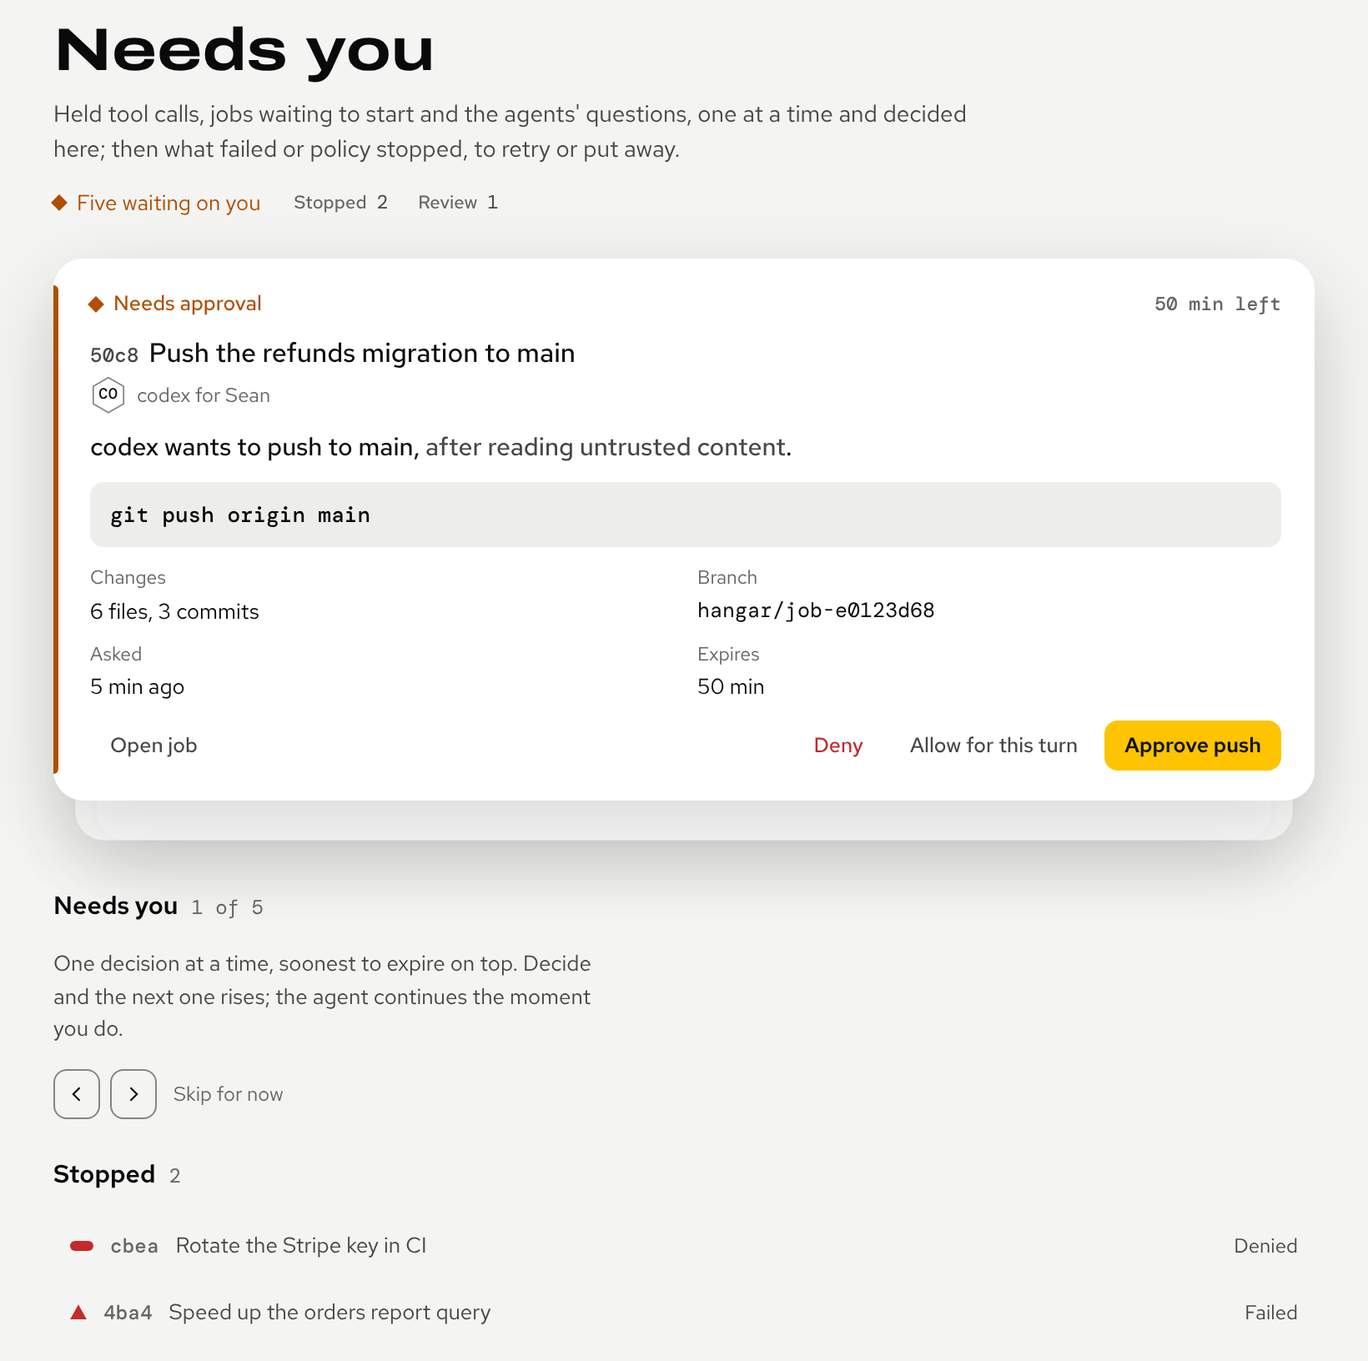
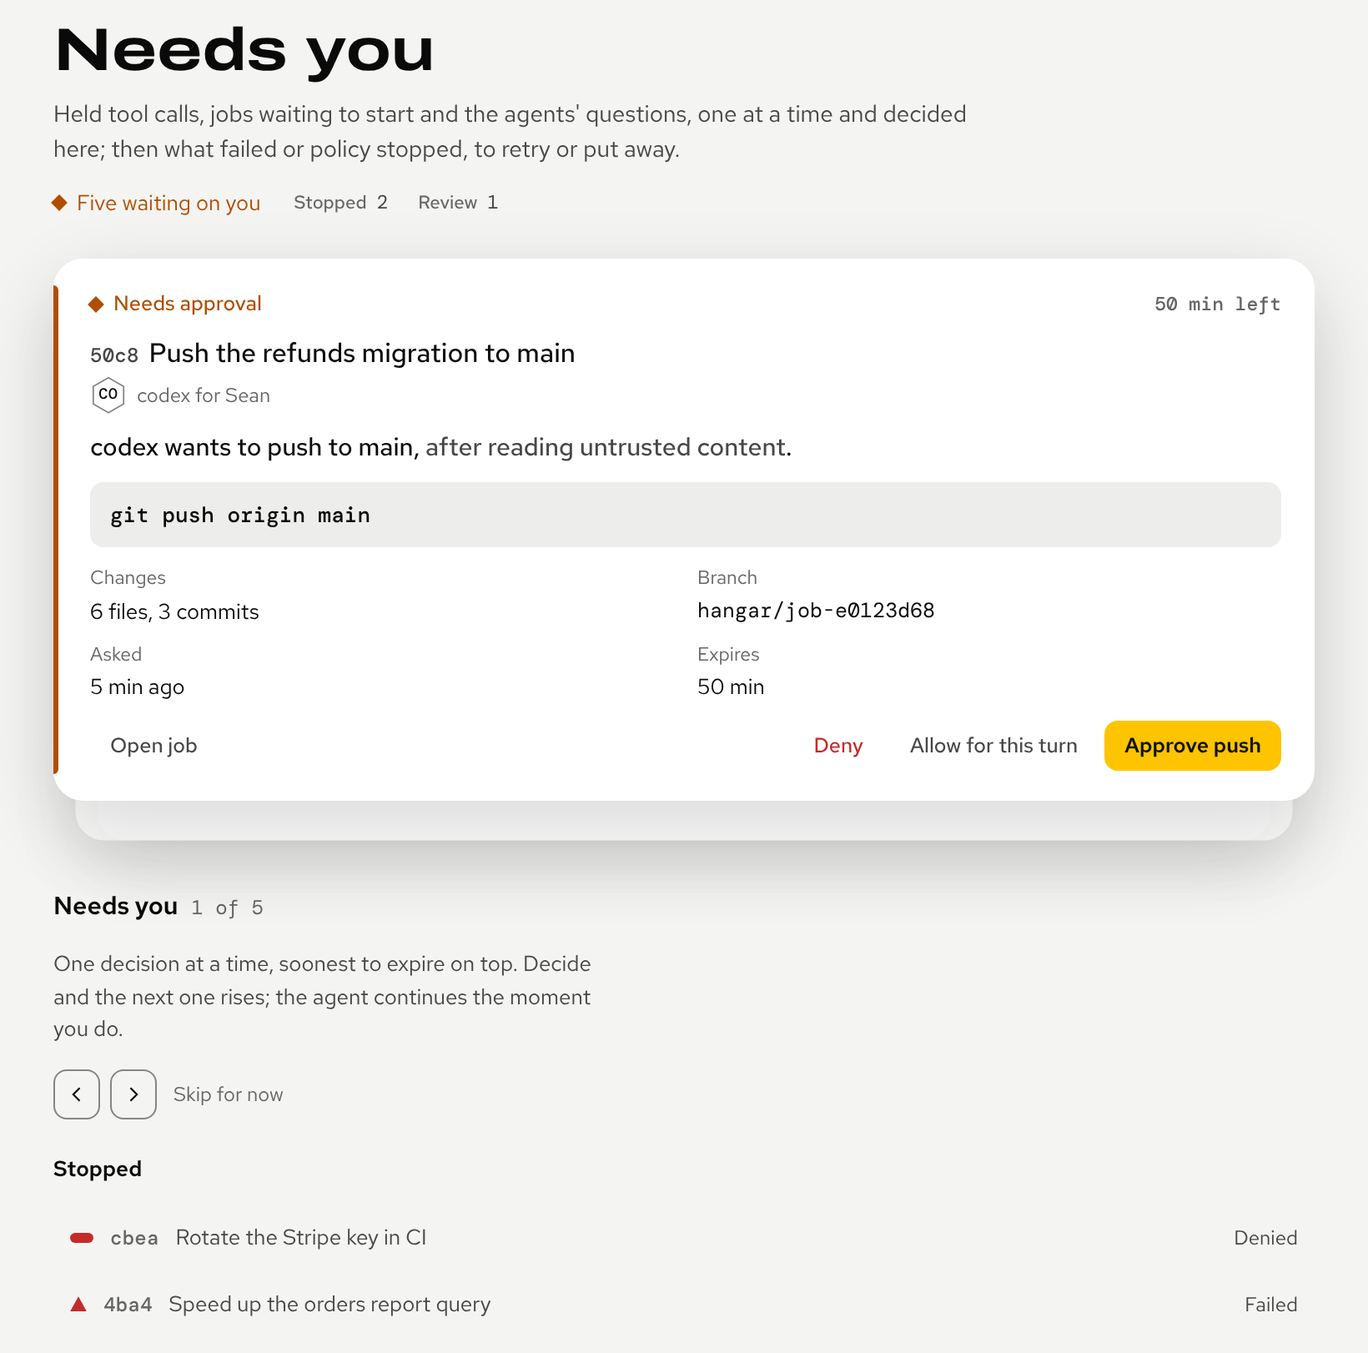
style: vendor Airframe theme-v13; the deck's Stopped list on Airframe's classes (KAN-149)
- sync-airframe.sh theme-v13: sentence-case docs labels, neutral docs
  highlights (no brand-wash), DecisionDeck's neutral peek and the new
  af-deck__subtitle / af-deck__stopped.
- fleet.js: the Stopped list uses af-deck__subtitle and af-deck__stopped.
- app.css: the local peek rule and the deck-stopped CSS are gone; Airframe
  covers both, and af-deck__stopped stays visible below 1000 px.
- Needs you and Fleet stills re-shot in Night and Day.

Claude-Session: https://claude.ai/code/session_01BSFunzHzapAtRqB8bzGrFz

diff --git a/docs/stylesheets/airframe-docs.css b/docs/stylesheets/airframe-docs.css
@@ -1,11 +1,11 @@
-/* Airframe theme-v12 for the docs sites. Generated from airframe/docs-site/airframe-docs.css by scripts/airframe.py; do not edit. Load after airframe.css. */
+/* Airframe theme-v13 for the docs sites. Generated from airframe/docs-site/airframe-docs.css by scripts/airframe.py; do not edit. Load after airframe.css. */
 @import url("https://fonts.googleapis.com/css2?family=Archivo:wdth,wght@62..125,100..900&family=DM+Mono:wght@400;500&family=Red+Hat+Text:ital,wght@0,400..700;1,400..700&display=swap");
 
 /*
   Airframe for the docs sites (Zensical / Material for MkDocs). Source: airframe/docs-site/airframe-docs.css
   in Sean-Koval/agent-factory, published as theme/airframe-docs.css by scripts/airframe.py build. Load after
   airframe.css. It maps the theme's --md-* variables onto Airframe tokens and adds the few Airframe details a
-  docs page needs: display type for headings, mono uppercase labels, a 2px product marker under the header,
+  docs page needs: display type for headings, sentence-case sans labels (theme-v13), a 2px product marker under the header,
   tonal blocks instead of boxed cards, and the suite strip (airframe-suite.html, included through
   overrides/main.html) that links the family's docs sites.
 
@@ -34,13 +34,13 @@
   --md-primary-bg-color--light: var(--af-fg-muted);
 
   --md-accent-fg-color: var(--af-brand-text);
-  --md-accent-fg-color--transparent: var(--af-brand-wash);
+  --md-accent-fg-color--transparent: var(--af-selected);
   --md-accent-bg-color: var(--af-on-brand);
   --md-accent-bg-color--light: var(--af-on-brand);
 
   --md-typeset-color: var(--af-fg);
   --md-typeset-a-color: var(--af-fg);
-  --md-typeset-mark-color: var(--af-brand-wash);
+  --md-typeset-mark-color: var(--af-selected);
   --md-typeset-table-color: var(--af-line);
   --md-typeset-table-color--light: var(--af-surface);
   --md-typeset-kbd-color: var(--af-raised);
@@ -48,8 +48,8 @@
 
   --md-code-fg-color: var(--af-terminal-fg);
   --md-code-bg-color: var(--af-terminal-bg);
-  --md-code-hl-color: var(--af-brand-wash);
-  --md-code-hl-color--light: var(--af-brand-wash);
+  --md-code-hl-color: var(--af-selected);
+  --md-code-hl-color--light: var(--af-selected);
   --md-code-hl-keyword-color: var(--af-code-keyword);
   --md-code-hl-function-color: var(--af-code-function);
   --md-code-hl-string-color: var(--af-code-string);
@@ -98,12 +98,12 @@ body { background: var(--af-canvas); }
 .md-typeset .af-suite { display: flex; align-items: stretch; height: 30px; white-space: nowrap; overflow-x: auto; scrollbar-width: none; }
 .md-typeset .af-suite::-webkit-scrollbar { display: none; }
 .md-typeset .af-suite a { text-decoration: none; }
-.md-typeset .af-suite__home { display: inline-flex; align-items: center; gap: .6em; padding-right: 1em; margin-right: .4em; color: var(--af-fg-muted); border-right: 1px solid var(--af-line); font-family: var(--af-font-mono); font-size: .56rem; letter-spacing: var(--af-label-track); text-transform: uppercase; }
+.md-typeset .af-suite__home { display: inline-flex; align-items: center; gap: .6em; padding-right: 1em; margin-right: .4em; color: var(--af-fg-muted); border-right: 1px solid var(--af-line); font-family: var(--af-font-sans); font-weight: 500; font-size: .6rem; letter-spacing: 0; text-transform: none; }
 .md-typeset .af-suite__home::before { content: ""; width: 12px; height: 1px; background: var(--af-brand-line); flex: none; }
 .md-typeset .af-suite .af-suite__list { list-style: none; margin: 0; padding: 0; display: flex; }
 .md-typeset .af-suite .af-suite__list li { margin: 0; padding: 0; display: block; }
 .md-typeset .af-suite__list a, .md-typeset .af-suite__list span { display: inline-flex; align-items: center; gap: .55em; height: 30px; padding: 0 .8em; line-height: 1; color: var(--af-fg-muted); font-family: var(--af-font-display); font-stretch: var(--af-display-stretch); font-weight: 700; font-size: .6rem; letter-spacing: 0; }
-.md-typeset .af-suite__list small { font-family: var(--af-font-mono); font-weight: 500; font-size: .5rem; line-height: 1; padding-top: 1px; letter-spacing: var(--af-label-track); text-transform: uppercase; color: var(--af-fg-subtle); opacity: 1; }
+.md-typeset .af-suite__list small { font-family: var(--af-font-sans); font-weight: 500; font-size: .55rem; line-height: 1; padding-top: 1px; letter-spacing: 0; text-transform: none; color: var(--af-fg-subtle); opacity: 1; }
 .md-typeset .af-suite__list span { color: var(--af-fg-subtle); }
 .md-typeset .af-suite a:hover, .md-typeset .af-suite a:focus-visible { color: var(--af-fg); }
 .md-typeset .af-suite [aria-current] { color: var(--af-fg); box-shadow: inset 0 -2px 0 var(--af-product); }
@@ -130,7 +130,7 @@ body { background: var(--af-canvas); }
 .md-header { border-bottom: 1px solid var(--af-line); }
 .md-header__title { font-family: var(--af-font-display); font-stretch: var(--af-display-stretch); font-weight: var(--af-display-weight); letter-spacing: var(--af-display-track); }
 .md-tabs { border-bottom: 1px solid var(--af-line); }
-.md-tabs__link { font-family: var(--af-font-mono); font-size: .62rem; letter-spacing: var(--af-label-track); text-transform: uppercase; opacity: 1; color: var(--af-fg-muted); }
+.md-tabs__link { font-family: var(--af-font-sans); font-weight: 500; font-size: .62rem; letter-spacing: 0; text-transform: none; opacity: 1; color: var(--af-fg-muted); }
 .md-tabs__link--active, .md-tabs__link:hover { color: var(--af-fg); }
 .md-tabs__item--active { box-shadow: inset 0 -2px 0 var(--af-product); }
 .md-header::after { content: ""; position: absolute; left: 0; bottom: -1px; width: 48px; height: 2px; background: var(--af-product); }
@@ -140,7 +140,7 @@ body { background: var(--af-canvas); }
 .md-typeset h1 { font-size: 1.9em; line-height: 1.08; margin-bottom: .9em; }
 .md-typeset h2 { font-size: 1.25em; line-height: 1.2; border-top: 1px solid var(--af-rule); padding-top: 1.1em; margin-top: 2em; }
 .md-typeset h3 { font-weight: 600; letter-spacing: 0; }
-.md-typeset h4, .md-typeset h5, .md-typeset h6 { font-family: var(--af-font-mono); text-transform: uppercase; letter-spacing: var(--af-label-track); font-size: .7rem; color: var(--af-fg-subtle); }
+.md-typeset h4, .md-typeset h5, .md-typeset h6 { font-family: var(--af-font-sans); font-weight: 600; text-transform: none; letter-spacing: 0; font-size: .75rem; color: var(--af-fg-muted); }
 
 /* page anatomy: the first paragraph under the title is the lede; "See also" and other end lists stay plain */
 .md-typeset h1 + p:not(.af-lede) { font-size: .9rem; line-height: 1.5; color: var(--af-fg-muted); max-width: 62ch; }
@@ -151,7 +151,7 @@ body { background: var(--af-canvas); }
 .md-typeset a.headerlink, .md-typeset .md-button { text-decoration: none; }
 
 /* buttons */
-.md-typeset .md-button { border-radius: var(--af-radius-control); border: 1px solid var(--af-line-strong); background: transparent; color: var(--af-fg); font-family: var(--af-font-mono); font-size: .64rem; letter-spacing: .06em; text-transform: uppercase; padding: .55em 1.2em; }
+.md-typeset .md-button { border-radius: var(--af-radius-control); border: 1px solid var(--af-line-strong); background: transparent; color: var(--af-fg); font-family: var(--af-font-sans); font-weight: 500; font-size: .64rem; letter-spacing: 0; text-transform: none; padding: .55em 1.2em; }
 .md-typeset .md-button--primary { background: var(--af-brand); border-color: var(--af-brand); color: var(--af-on-brand); }
 .md-typeset .md-button:hover { border-color: var(--af-fg); background: transparent; color: var(--af-fg); }
 .md-typeset .md-button--primary:hover { background: var(--af-brand-hover); border-color: var(--af-brand-hover); color: var(--af-on-brand); }
@@ -165,10 +165,10 @@ body { background: var(--af-canvas); }
 .md-typeset code { border-radius: var(--af-radius-control); font-size: .82em; }
 .md-typeset :not(pre) > code { background: var(--af-raised); color: var(--af-fg); padding: .1em .35em; }
 
-/* tables: full column width, open header (no fill), mono uppercase labels, a hairline under the header, row rules only */
+/* tables: full column width, open header (no fill), sentence-case sans labels, a hairline under the header, row rules only */
 .md-typeset .md-typeset__table { display: block; width: 100%; }
 .md-typeset table:not([class]) { display: table; width: 100%; border: 0; border-radius: 0; background: transparent; font-size: .74rem; box-shadow: none; }
-.md-typeset table:not([class]) th { background: transparent; color: var(--af-fg-subtle); font-family: var(--af-font-mono); font-weight: 500; font-size: .6rem; letter-spacing: var(--af-label-track); text-transform: uppercase; border-bottom: 1px solid var(--af-line); }
+.md-typeset table:not([class]) th { background: transparent; color: var(--af-fg-subtle); font-family: var(--af-font-sans); font-weight: 500; font-size: .6rem; letter-spacing: 0; text-transform: none; border-bottom: 1px solid var(--af-line); }
 .md-typeset table:not([class]) td { border-top: 1px solid var(--af-line-subtle); }
 .md-typeset table:not([class]) tr:hover { background: var(--af-selected); box-shadow: none; }
 
@@ -182,13 +182,13 @@ body { background: var(--af-canvas); }
 .md-typeset .admonition, .md-typeset details { --af-adm: var(--af-fg-subtle); border: 0; border-radius: var(--af-radius-card); background: var(--af-surface) !important; box-shadow: inset 2px 0 0 var(--af-adm); font-size: .74rem; }
 .md-typeset :is(.admonition, details):is(.warning, .caution, .attention) { --af-adm: var(--af-status-approval); }
 .md-typeset :is(.admonition, details):is(.danger, .error, .failure, .fail, .missing) { --af-adm: var(--af-status-failed); }
-.md-typeset .admonition-title, .md-typeset summary { background: transparent !important; font-family: var(--af-font-mono); font-size: .62rem; letter-spacing: var(--af-label-track); text-transform: uppercase; color: var(--af-fg-muted); }
+.md-typeset .admonition-title, .md-typeset summary { background: transparent !important; font-family: var(--af-font-sans); font-weight: 500; font-size: .62rem; letter-spacing: 0; text-transform: none; color: var(--af-fg-muted); }
 .md-typeset .admonition-title::before, .md-typeset summary::before { background-color: var(--af-adm) !important; }
 .md-typeset .admonition-title::after, .md-typeset summary::after { color: var(--af-fg-subtle) !important; }
 .md-typeset .admonition:focus-within, .md-typeset details:focus-within { box-shadow: inset 2px 0 0 var(--af-adm), 0 0 0 2px var(--af-focus) !important; }
 
 /* navigation: mono section labels, a brand mark on the current page */
-.md-nav__title { font-family: var(--af-font-mono); text-transform: uppercase; letter-spacing: var(--af-label-track); font-size: .6rem; color: var(--af-fg-subtle); box-shadow: none !important; background: transparent !important; }
+.md-nav__title { font-family: var(--af-font-sans); font-weight: 500; text-transform: none; letter-spacing: 0; font-size: .6rem; color: var(--af-fg-subtle); box-shadow: none !important; background: transparent !important; }
 .md-nav__link--active { color: var(--af-fg) !important; font-weight: 600; }
 .md-nav__item .md-nav__link--active { box-shadow: inset 2px 0 0 var(--af-product); padding-left: .5em; }
 .md-search__form { border-radius: var(--af-radius-control); background: var(--af-raised); }
@@ -197,13 +197,13 @@ body { background: var(--af-canvas); }
 .md-typeset img { border-radius: var(--af-radius-card); }
 .af-figure { margin: 1.5em 0; }
 .af-figure img { width: 100%; display: block; }
-.af-figure figcaption { font-family: var(--af-font-mono); font-size: .6rem; letter-spacing: var(--af-label-track); text-transform: uppercase; color: var(--af-fg-subtle); margin-top: .6em; }
+.af-figure figcaption { font-family: var(--af-font-sans); font-weight: 500; font-size: .6rem; letter-spacing: 0; text-transform: none; color: var(--af-fg-subtle); margin-top: .6em; }
 
 /* the home page hero: one strong line, a mono label, two actions. The dot field appears only behind a
    product visual (af-hero--visual): the brand book puts it behind hero data, never on an empty stage. */
 .af-hero { position: relative; padding: 2.4rem 0 1.6rem; margin-bottom: 1rem; }
 .af-hero > * { position: relative; z-index: 1; }
-.af-eyebrow { font-family: var(--af-font-mono); font-size: .62rem; letter-spacing: var(--af-label-track); text-transform: uppercase; color: var(--af-fg-subtle); display: inline-flex; align-items: center; gap: .6em; }
+.af-eyebrow { font-family: var(--af-font-sans); font-weight: 500; font-size: .62rem; letter-spacing: 0; text-transform: none; color: var(--af-fg-subtle); display: inline-flex; align-items: center; gap: .6em; }
 .af-eyebrow::before { content: ""; width: 14px; height: 1px; background: var(--af-brand-line); }
 .md-typeset .af-hero h1 { font-size: 2.6em; margin: .4em 0 .5em; max-width: 18ch; }
 .af-lede { color: var(--af-fg-muted); font-size: .95rem; max-width: 52ch; }
@@ -233,7 +233,7 @@ body { background: var(--af-canvas); }
 .af-tool { background: var(--af-raised); padding: var(--af-space-16); display: flex; flex-direction: column; gap: .4em; min-width: 0; text-decoration: none !important; color: var(--af-fg) !important; border-top: 2px solid var(--af-tool, var(--af-line)); }
 .af-tool:hover { background: var(--af-selected); }
 .af-tool b { font-family: var(--af-font-display); font-stretch: var(--af-display-stretch); font-weight: 700; font-size: .9rem; }
-.af-tool small { font-family: var(--af-font-mono); font-size: .58rem; letter-spacing: var(--af-label-track); text-transform: uppercase; color: var(--af-fg-subtle); opacity: 1; }
+.af-tool small { font-family: var(--af-font-sans); font-weight: 500; font-size: .58rem; letter-spacing: 0; text-transform: none; color: var(--af-fg-subtle); opacity: 1; }
 .af-tool span { color: var(--af-fg-muted); font-size: .72rem; line-height: 1.5; }
 
 /* footer: on the canvas, separated by a rule */

diff --git a/src/hangar/ui/airframe/airframe-components.css b/src/hangar/ui/airframe/airframe-components.css
@@ -1,4 +1,4 @@
-/* Airframe theme-v12 components: the af- classes. Generated from airframe/styles/ by scripts/airframe.py;
+/* Airframe theme-v13 components: the af- classes. Generated from airframe/styles/ by scripts/airframe.py;
    do not edit. Load after airframe.css. Reference and previews: airframe/components/, and the
    gallery on https://sean-koval.github.io/agent-factory/airframe/ */
 @import url('https://fonts.googleapis.com/css2?family=Archivo:wdth,wght@62..125,100..900&family=DM+Mono:wght@400;500&family=Red+Hat+Text:ital,wght@0,400..700;1,400..700&display=swap');
@@ -221,6 +221,9 @@ body{margin:0;background:var(--af-canvas);color:var(--af-fg);font-family:var(--a
 .af-gauge__fill{position:absolute;inset:0 auto 0 0;background:var(--af-fg-muted)}
 .af-gauge__bug{position:absolute;top:-9px;bottom:-4px;width:1px;margin-left:-.5px;background:var(--af-brand-text)}
 .af-gauge__bug::before{content:"";position:absolute;top:0;left:-4.5px;border-left:5px solid transparent;border-right:5px solid transparent;border-top:6px solid var(--af-brand-text)}
+/* in a list (one gauge per agent) the bug is neutral, like the list sparkline's end dot: a yellow tick per row would say every row is yours */
+.af-gauge--mini .af-gauge__bug{background:var(--af-fg-muted)}
+.af-gauge--mini .af-gauge__bug::before{border-top-color:var(--af-fg-muted)}
 
 /* ---- readouts: display windows that hold digit cells ---- */
 .af-readouts{--af-cols:3;display:grid;grid-template-columns:repeat(var(--af-cols),minmax(0,1fr));gap:2px;background:var(--af-canvas);border-radius:var(--af-radius-control);overflow:hidden;min-width:0}
@@ -1376,6 +1379,8 @@ button.af-lanes__label:focus-visible{outline:2px solid var(--af-focus);outline-o
 .af-deck__stack>.af-decision[data-k="2"]{--k:2}
 .af-deck__stack>.af-decision:not([data-k="0"]){height:100%;overflow:hidden;pointer-events:none}
 .af-deck__stack>.af-decision:not([data-k="0"])>:not(.af-decision__hd){visibility:hidden}
+/* the cards behind are neutral: only the top card carries the status edge */
+.af-deck__stack>.af-decision:not([data-k="0"])::before{display:none}
 .af-deck__stack>.af-decision:not([data-k="0"]):not([data-k="1"]):not([data-k="2"]){display:none}
 .af-decision.is-leaving{transform:translateX(40px) scale(.98);opacity:0;pointer-events:none}
 .af-decision__hd{display:flex;align-items:center;gap:8px;font-size:12.5px;font-weight:500;min-width:0}
@@ -1391,16 +1396,17 @@ button.af-lanes__label:focus-visible{outline:2px solid var(--af-focus);outline-o
 .af-deck__side{display:flex;flex-direction:column;gap:14px;padding-top:4px;min-width:0}
 .af-deck__title{display:flex;align-items:baseline;gap:8px;margin:0;font-size:15px;font-weight:600;color:var(--af-fg)}
 .af-deck__count{font-family:var(--af-font-mono);font-weight:400;font-size:12px;color:var(--af-fg-subtle);font-variant-numeric:tabular-nums}
+.af-deck__subtitle{margin:6px 0 0;font-size:13px;font-weight:600;color:var(--af-fg)}
 .af-deck__side>p{margin:0;max-width:40ch;font-size:13px;line-height:1.5;color:var(--af-fg-muted)}
 .af-deck__nav{display:flex;align-items:center;gap:6px}
 .af-deck__nav>.af-note{margin-left:4px}
-.af-deck__upnext{display:flex;flex-direction:column;gap:4px;margin:0;padding:0;list-style:none}
-.af-deck__upnext button{display:flex;align-items:center;gap:10px;width:100%;padding:8px 10px;border:0;border-radius:var(--af-radius-control);background:none;color:var(--af-fg-muted);font:inherit;font-size:13px;text-align:left;cursor:pointer;min-width:0}
-.af-deck__upnext button:hover{background:var(--af-raised)}
-.af-deck__upnext button>.af-status{gap:0}
-.af-deck__upnext .af-id{font-size:12px;color:var(--af-fg-subtle)}
-.af-deck__upnext .af-deck__what{min-width:0;overflow:hidden;text-overflow:ellipsis;white-space:nowrap}
-.af-deck__upnext .af-deck__when{margin-left:auto;font-size:12px;color:var(--af-fg-muted);white-space:nowrap}
+:is(.af-deck__upnext,.af-deck__stopped){display:flex;flex-direction:column;gap:4px;margin:0;padding:0;list-style:none}
+:is(.af-deck__upnext,.af-deck__stopped) button{display:flex;align-items:center;gap:10px;width:100%;padding:8px 10px;border:0;border-radius:var(--af-radius-control);background:none;color:var(--af-fg-muted);font:inherit;font-size:13px;text-align:left;cursor:pointer;min-width:0}
+:is(.af-deck__upnext,.af-deck__stopped) button:hover{background:var(--af-raised)}
+:is(.af-deck__upnext,.af-deck__stopped) button>.af-status{gap:0}
+:is(.af-deck__upnext,.af-deck__stopped) .af-id{font-size:12px;color:var(--af-fg-subtle)}
+:is(.af-deck__upnext,.af-deck__stopped) .af-deck__what{min-width:0;overflow:hidden;text-overflow:ellipsis;white-space:nowrap}
+:is(.af-deck__upnext,.af-deck__stopped) .af-deck__when{margin-left:auto;font-size:12px;color:var(--af-fg-muted);white-space:nowrap}
 .af-deck__empty{min-height:120px;border-radius:var(--af-radius-sheet);box-shadow:inset 0 0 0 1px var(--af-line)}
 
 /* ---- runway groups: a pool or environment header above its rows or cards ---- */

diff --git a/src/hangar/ui/fleet.js b/src/hangar/ui/fleet.js
@@ -396,8 +396,8 @@ function deckHtml(where) {
   const row = (it, attrs) => { const u = unitOfItem(it); return `<li><button type="button" ${attrs(u)}>${markOnly(roleOfItem(it))}<span class="af-id">${esc(u?.tail || "")}</span><span class="af-deck__what">${esc(u?.work || it.title || it.job || it.session || "")}</span><span class="af-deck__when">${esc(when(it))}</span></button></li>`; };
   // what stopped, under the decisions: its own list, never in the stack or up next; a row opens the agent, whose console
   // holds retry, start over and acknowledge
-  const stoppedHtml = stopped.length ? `<h3 class="af-deck__title deck-stopped__title">Stopped<span class="af-deck__count">${stopped.length}</span></h3>
-      <ul class="af-deck__upnext deck-stopped">${stopped.map((it) => row(it, (u) => (u ? `data-dk="jump" data-unit="${esc(u.id)}"` : it.job ? `data-go="job:${esc(it.job)}"` : "disabled"))).join("")}</ul>` : "";
+  const stoppedHtml = stopped.length ? `<h3 class="af-deck__subtitle">Stopped</h3>
+      <ul class="af-deck__stopped">${stopped.map((it) => row(it, (u) => (u ? `data-dk="jump" data-unit="${esc(u.id)}"` : it.job ? `data-go="job:${esc(it.job)}"` : "disabled"))).join("")}</ul>` : "";
   return `<section class="af-deck" aria-label="Needs you" data-deck="${where}">
     <div class="af-deck__stack">${stack}</div>
     <aside class="af-deck__side">

diff --git a/src/hangar/ui/app.css b/src/hangar/ui/app.css
@@ -169,13 +169,6 @@ fieldset.creds legend { padding: 0; margin-bottom: var(--af-space-8); font-famil
   .needs-review__row > :is(.af-agent__ttl, .af-agent__rig, .needs-review__acts) { grid-column: 2; }
   .needs-review__acts { justify-content: flex-start; margin-left: -10px; }
 }
-/* what stopped sits under the decisions in its own list (fleet.js deckHtml), on every width: Airframe hides the up-next
-   list below 1000 px, but this is the only place the stopped ones are listed */
-.af-deck .deck-stopped { display: flex; }
-.deck-stopped__title { margin-top: var(--af-space-8); }
-/* the cards peeking behind the top one are neutral stacked surfaces: their status edge stays on the top card only
-   (proposed for Airframe's DecisionDeck; until it ships there, hangar hides it here) */
-.af-deck__stack > .af-decision:not([data-k="0"])::before { display: none; }
 .af-decision .af-lead code { overflow-wrap: anywhere; }
 .af-decision .af-pairs .af-mono, .af-console .af-pairs .af-mono { overflow-wrap: anywhere; }
 

diff --git a/docs/stylesheets/airframe.css b/docs/stylesheets/airframe.css
@@ -1,5 +1,5 @@
 /*
-  Airframe theme-v12 tokens. Generated from airframe/tokens.json by scripts/airframe.py; do not edit.
+  Airframe theme-v13 tokens. Generated from airframe/tokens.json by scripts/airframe.py; do not edit.
   Change a value in airframe/tokens.json, run `python3 scripts/airframe.py build`, and add a
   theme/CHANGELOG.md entry. Tool repos vendor this file unmodified (scripts/sync-airframe.sh).
 

diff --git a/src/hangar/ui/airframe/airframe.css b/src/hangar/ui/airframe/airframe.css
@@ -1,5 +1,5 @@
 /*
-  Airframe theme-v12 tokens. Generated from airframe/tokens.json by scripts/airframe.py; do not edit.
+  Airframe theme-v13 tokens. Generated from airframe/tokens.json by scripts/airframe.py; do not edit.
   Change a value in airframe/tokens.json, run `python3 scripts/airframe.py build`, and add a
   theme/CHANGELOG.md entry. Tool repos vendor this file unmodified (scripts/sync-airframe.sh).
 
